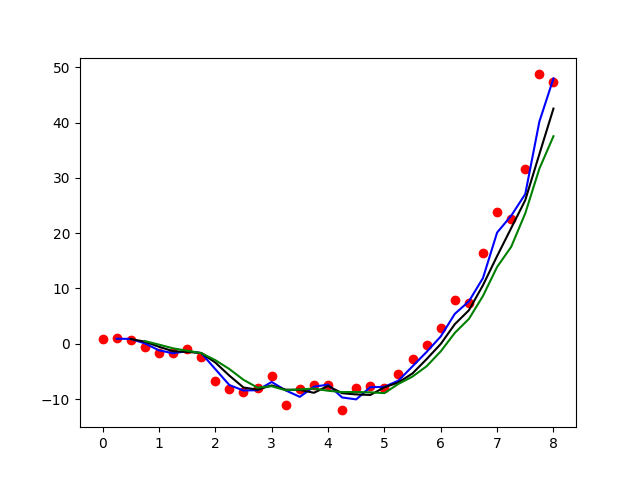
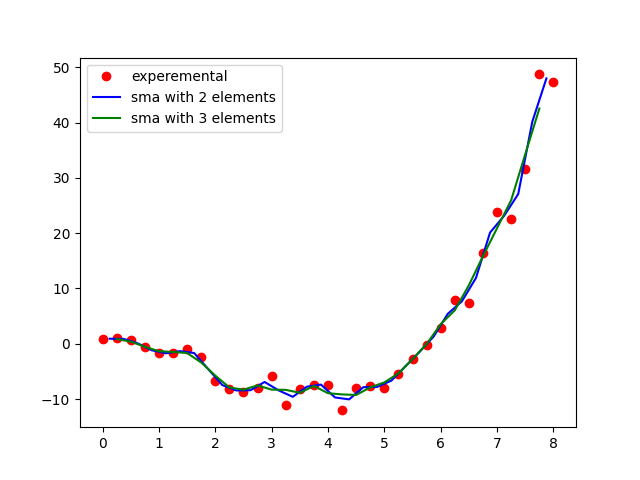
add new features to t2

Changed region(s): [[0.1562, 0.1562, 0.875, 0.8438], [0.125, 0.125, 0.4375, 0.2812]]

diff --git a/t2/task2.py b/t2/task2.py
@@ -24,13 +24,17 @@ class Poly_Appr:
             y_data.append(float(i[1]))
         return cls(x_data, y_data)
 
+    #* creates new x and y arrays with [lenght = initial length - period (shift)]
     def sma(self, period):
         y_sma_array = []
+        x_sma_array = []
         back_ind = len(self.x_data)-period+1
-        x_sma_array = self.x_data[-back_ind:]
+        # x_sma_array = self.x_data[-back_ind:]
         for i in range(len(self.y_data)-1):
-            shift = self.y_data[i:period+i]
-            y_sma_array.append(reduce(lambda x, y: x+y, shift)/period)
+            shift_y = self.y_data[i:period+i]
+            shift_x = self.x_data[i:period+i]
+            y_sma_array.append(reduce(lambda x, y: x+y, shift_y)/period)
+            x_sma_array.append(reduce(lambda x, y: x+y, shift_x)/period)
             if period+i == len(self.y_data):
                 break
         return x_sma_array, y_sma_array
@@ -38,16 +42,25 @@ class Poly_Appr:
     def poly_fit(self, x, y, degree):
         z = np.polyfit(x, y, degree)
         p = np.poly1d(z)
+        with open("polynomial equiation.txt", "w+") as f:
+            f.write(str(p))
         return p
 
     def get_chi(self, expected, observed):
-
         chi = 0
         for ind in range(len(observed)):
             chi += (abs(observed[ind]) -
                     abs(expected[ind]))**2/abs(expected[ind])
-        print(chi)
+        print("chi squared ", chi)
         return chi
+
+    def get_variance(self, expected, observed): #* it's like variance but not
+        sub_sq = 0
+        for ind in range(len(observed)):
+            sub_sq += (abs(observed[ind]) -
+                       abs(expected[ind]))**2
+        coef = sub_sq/(len(expected)-1)
+        return coef
 
 
 if __name__ == '__main__':
@@ -58,15 +71,20 @@ if __name__ == '__main__':
     x_sma_ar_2, y_sma_ar_2 = poly_appr.sma(2)
     x_sma_ar_3, y_sma_ar_3 = poly_appr.sma(3)
     x_sma_ar_4, y_sma_ar_4 = poly_appr.sma(4)
-    plt.plot(x_sma_ar_2, y_sma_ar_2, color="blue")
+    # plt.plot(x_sma_ar_2, y_sma_ar_2, color="blue", label="sma with 2 elements")
+    plt.plot(x_sma_ar_3, y_sma_ar_3, color="green", label="sma with 3 elements")
     # plt.plot(x_sma_ar_3, y_sma_ar_3, color="black")
     # plt.plot(x_sma_ar_4, y_sma_ar_4, color="green")
-    max_chi = 44.985
-    for i in range(1, 10):
+    max_chi = np.random.chisquare(len(x_sma_ar_2)-1)
+    print("max chi", max_chi)
+    for i in range(1, 15):
         poly = poly_appr.poly_fit(x_sma_ar_2, y_sma_ar_2, i)
         y_poly_ar = poly(x_sma_ar_2)
-        if poly_appr.get_chi(y_poly_ar, y_sma_ar_2) < max_chi:
+        if 0.95 < poly_appr.get_variance(y_poly_ar, y_sma_ar_2) < 1.05:
+            poly_appr.get_chi(y_poly_ar, y_sma_ar_2)
+            print("sub_sq/degrees of freedom", poly_appr.get_variance(y_poly_ar, y_sma_ar_2))
             print(f"good fit with {i} degree")
-            break
-    plt.plot(x_sma_ar_2, poly(x_sma_ar_2), color="black")
+            # break
+    plt.plot(x_sma_ar_2, y_poly_ar, color="black", label="poly fit")
+    plt.legend()
     plt.savefig("2.png")
